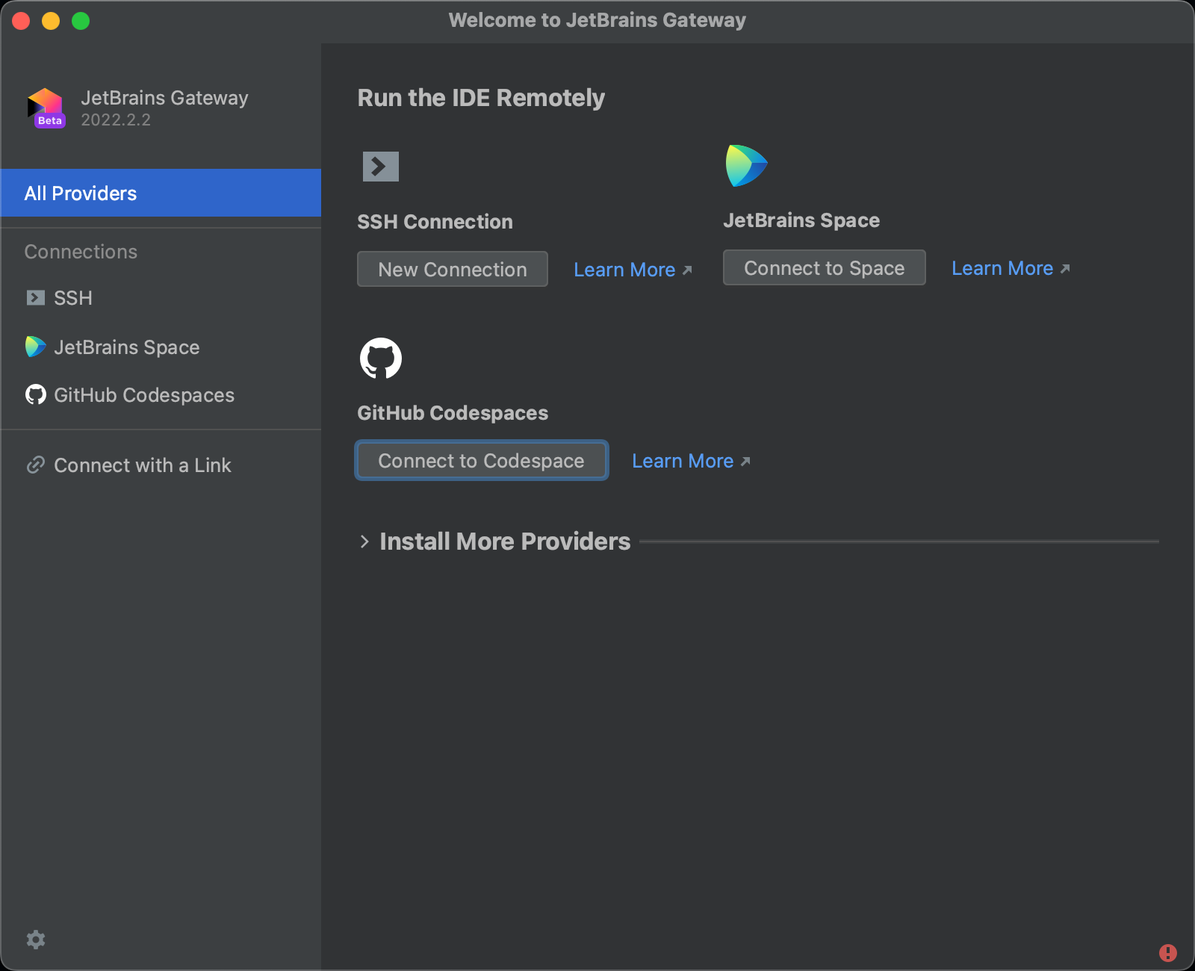
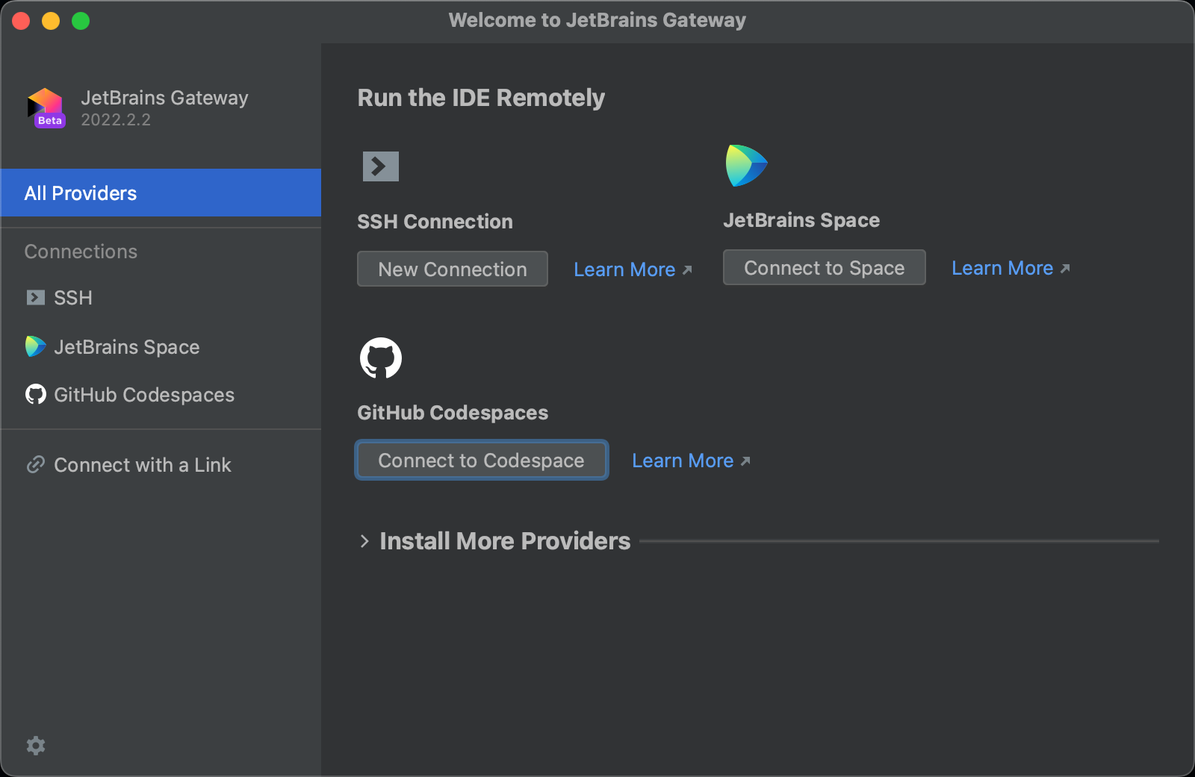
Universe: Final changes for docs for JetBrains support in Codespaces  (#32306)

diff --git a/content/codespaces/developing-in-codespaces/using-github-codespaces-in-your-jetbrains-ide.md b/content/codespaces/developing-in-codespaces/using-github-codespaces-in-your-jetbrains-ide.md
@@ -2,6 +2,7 @@
 title: Using GitHub Codespaces in your JetBrains IDE
 shortTitle: JetBrains IDEs
 intro: 'You can use the JetBrains Gateway to connect to your codespace and work in your favorite JetBrains IDE.'
+miniTocMaxHeadingLevel: 3
 versions:
   fpt: '*'
   ghec: '*'
@@ -42,7 +43,7 @@ To work in a codespace in a JetBrains IDE you need:
 
 * A valid JetBrains license
 * The JetBrains Gateway application
-* {% data variables.product.prodname_cli %} version 2.2.0 or later 
+* {% data variables.product.prodname_cli %} version 2.18.0 or later 
 * An existing codespace that's running an SSH server
 
 ### JetBrains license
@@ -61,7 +62,7 @@ You can install and update the JetBrains Gateway from the JetBrains Toolbox appl
 
 ### {% data variables.product.prodname_cli %}
 
-The {% data variables.product.prodname_github_codespaces %} plugin for the JetBrains Gateway requires that you have installed and configured {% data variables.product.prodname_cli %} version 2.2.0 or later before opening a codespace from the JetBrains Gateway.
+The {% data variables.product.prodname_github_codespaces %} plugin for the JetBrains Gateway requires that you have installed and configured {% data variables.product.prodname_cli %} version 2.18.0 or later before opening a codespace from the JetBrains Gateway.
 
 Use this command to check your version of {% data variables.product.prodname_cli %}:
 
@@ -73,32 +74,17 @@ For more information, see "[About GitHub CLI](/github-cli/github-cli/about-githu
 
 ### Codespace running an SSH server
 
-You must have an existing codespace to connect to. {% data reusables.codespaces.ways-to-create-a-codespace %} For more information, see "[Creating a codespace](/codespaces/developing-in-codespaces/creating-a-codespace)."
+You must have an existing codespace to connect to. {% data reusables.codespaces.ways-to-create-a-codespace %} For more information, see "[Creating a codespace for a repository](/codespaces/developing-in-codespaces/creating-a-codespace-for-a-repository)."
 
 {% data reusables.codespaces.ssh-server-installed %}
 
 For more information about the `devcontainer.json` file and the default container image, see "[Introduction to dev containers](/codespaces/setting-up-your-project-for-codespaces/introduction-to-dev-containers)."
 
-## Authenticating with {% data variables.product.prodname_dotcom_the_website %}
+{% note %}
 
-Before you can use the JetBrains Gateway to connect to your codespaces, you must use {% data variables.product.prodname_cli %} to authenticate with {% data variables.product.prodname_dotcom_the_website %}, specifying the `codespace` scope.
+**Note**: For help with connecting to your codespace over SSH, see "[Troubleshooting {% data variables.product.prodname_github_codespaces %} clients](/codespaces/troubleshooting/troubleshooting-github-codespaces-clients?tool=jetbrains#ssh-connection-issues)."
 
-1. In a terminal window:
-
-   ```shell{:copy}
-   gh auth login -h github.com -s codespace
-   ```
-
-1. If a prompt is displayed asking if you want to re-authenticate, type `y`.
-1. Follow the prompts to complete the authentication process, choosing these options:
-   * What account do you want to log into? `{% data variables.product.prodname_dotcom_the_website %}`
-   * What is your preferred protocol for Git operations? `HTTPS`
-   * Authenticate Git with your GitHub credentials? `yes`
-   * How would you like to authenticate GitHub CLI? `Login with a web browser`
-1. Copy the one-time code and press <kbd>Enter</kbd>.
-1. Paste the copied code and click **Continue**.
-1. If you belong to organizations, the "Single sign-on to your organizations" page is displayed. Click **Authorize** beside the organizations you want to authorize the JetBrains Gateway to access, then click **Continue**.
-1. On the "Authorize {% data variables.product.prodname_github_codespaces %} for JetBrains" page, click **Authorize {% data variables.product.prodname_dotcom %}**.
+{% endnote %}
 
 ## Setting up the JetBrains Gateway
 
@@ -107,8 +93,7 @@ The first time you use JetBrains Gateway for {% data variables.product.prodname_
 1. Open the JetBrains Gateway application.
 1. Under **Install More Providers** click the **Install** link for {% data variables.product.prodname_github_codespaces %}.
 
-   **TODOCS -- ADD SCREENSHOT OF CODESPACES "INSTALL" OPTION - TO BE SUPPLIED BY JETBRAINS**
-   ![Screenshot of the JetBrains Gateway initial view]()
+   ![Screenshot of the JetBrains Gateway initial view](/assets/images/help/codespaces/jetbrains-gateway-initial-view.png)
 
 1. Click **Connect to Codespace**.
 
@@ -145,3 +130,4 @@ The first time you use JetBrains Gateway for {% data variables.product.prodname_
 - "[Developing in a codespace](/codespaces/developing-in-codespaces/developing-in-a-codespace)"
 - "[Using the {% data variables.product.prodname_github_codespaces %} plugin for JetBrains](/codespaces/codespaces-reference/using-the-github-codespaces-plugin-for-jetbrains)"
 - "[Using {% data variables.product.prodname_copilot %} in {% data variables.product.prodname_github_codespaces %}](/codespaces/codespaces-reference/using-github-copilot-in-github-codespaces)"
+- "[Troubleshooting {% data variables.product.prodname_github_codespaces %} clients](/codespaces/troubleshooting/troubleshooting-github-codespaces-clients?tool=jetbrains)"

diff --git a/content/codespaces/getting-started/deep-dive.md b/content/codespaces/getting-started/deep-dive.md
@@ -93,7 +93,7 @@ To stop your codespace you can
 * In the browser: on your list of codespaces at [https://github.com/codespaces](https://github.com/codespaces), click the ellipsis (**...**) to the right of the codespace you want to stop and click **Stop codespace**.
 * In {% data variables.product.prodname_vscode_shortname %}: open [the {% data variables.product.prodname_vscode_command_palette %}](/codespaces/codespaces-reference/using-the-vs-code-command-palette-in-codespaces#suspending-or-stopping-a-codespace) - for example, by pressing <kbd>Ctrl</kbd>+<kbd>Shift</kbd>+<kbd>Enter</kbd> (Windows/Linux) or <kbd>Shift</kbd>+<kbd>Command</kbd>+<kbd>P</kbd> (Mac) - type `Codespaces: stop` then press <kbd>Enter</kbd>.
 * In the JetBrains client, click the stop button at the top of the {% data variables.product.prodname_github_codespaces %} tool window. For more information, see the "JetBrains IDEs" tab of "[Stopping and starting a codespace](/codespaces/developing-in-codespaces/stopping-and-starting-a-codespace)."
-* In a terminal window: use the {% data variables.product.prodname_cli %} command `gh codespace stop`. For more information, see "[Using Codespaces with GitHub CLI](/codespaces/developing-in-codespaces/using-github-codespaces-with-github-cli#gh-commands-for-github-codespaces)."
+* In a terminal window: use the {% data variables.product.prodname_cli %} command `gh codespace stop`. For more information, see "[Using {% data variables.product.prodname_github_codespaces %} with {% data variables.product.prodname_cli %}](/codespaces/developing-in-codespaces/using-github-codespaces-with-github-cli#gh-commands-for-github-codespaces)."
 
 If you exit your codespace without running the stop command (for example, by closing the browser tab), or if you leave the codespace running without interaction, the codespace and its running processes will continue for the duration of the inactivity timeout period. 
 
@@ -135,7 +135,7 @@ You can add plugins and extensions within a codespace to personalize your experi
 
 ### {% data variables.product.prodname_vscode_shortname %} extensions
 
-If you work on your codespaces in the {% data variables.product.prodname_vscode_shortname %} desktop application, or the web client, you can add any extensions you need from the {% data variables.product.prodname_vscode_marketplace %}. For information on how extensions run in {% data variables.product.prodname_github_codespaces %}, see [Supporting Remote Development and GitHub Codespaces](https://code.visualstudio.com/api/advanced-topics/remote-extensions) in the {% data variables.product.prodname_vscode_shortname %} documentation. 
+If you work on your codespaces in the {% data variables.product.prodname_vscode_shortname %} desktop application, or the web client, you can add any extensions you need from the {% data variables.product.prodname_vscode_marketplace %}. For information on how extensions run in {% data variables.product.prodname_github_codespaces %}, see [Supporting Remote Development and {% data variables.product.prodname_github_codespaces %}](https://code.visualstudio.com/api/advanced-topics/remote-extensions) in the {% data variables.product.prodname_vscode_shortname %} documentation. 
 
 If you already use {% data variables.product.prodname_vscode_shortname %}, you can use [Settings Sync](https://code.visualstudio.com/docs/editor/settings-sync) to automatically sync extensions, settings, themes, and keyboard shortcuts between your local instance and any codespaces you create.
 
@@ -156,4 +156,4 @@ If you work on your codespaces in a JetBrains IDE, you can add plugins from the 
 - "[Enabling {% data variables.product.prodname_github_codespaces %} for your organization](/codespaces/managing-codespaces-for-your-organization/enabling-github-codespaces-for-your-organization)"
 - "[Managing the cost of {% data variables.product.prodname_github_codespaces %} in your organization](/codespaces/managing-codespaces-for-your-organization/managing-the-cost-of-github-codespaces-in-your-organization)"
 - "[Add a dev container configuration to your repository](/codespaces/setting-up-your-project-for-codespaces/setting-up-your-project-for-codespaces)"
-- "[Codespaces lifecycle](/codespaces/developing-in-codespaces/codespaces-lifecycle)"
+- "[The codespace lifecycle](/codespaces/developing-in-codespaces/the-codespace-lifecycle)"

diff --git a/content/codespaces/developing-in-codespaces/the-codespace-lifecycle.md b/content/codespaces/developing-in-codespaces/the-codespace-lifecycle.md
@@ -1,5 +1,5 @@
 ---
-title: Codespaces lifecycle
+title: The codespace lifecycle
 intro: 'You can develop in a {% data variables.product.prodname_github_codespaces %} environment and maintain your data throughout the entire codespace lifecycle.'
 versions:
   fpt: '*'
@@ -8,6 +8,8 @@ type: overview
 topics:
   - Codespaces
   - Developer
+redirect_from:
+  - /codespaces/developing-in-codespaces/codespaces-lifecycle
 ---
 
 ## About the lifecycle of a codespace
@@ -30,7 +32,7 @@ When you connect to a codespace through the web, auto-save is enabled automatica
 
 Your work will be saved on a virtual machine in the cloud. You can close and stop a codespace and return to the saved work later. If you have unsaved changes, your editor will prompt you to save them before exiting. However, if your codespace is deleted, then your work will be deleted too. To persist your work, you will need to commit your changes and push them to your remote repository, or publish your work to a new remote repository if you created your codespace from a template. For more information, see "[Using source control in your codespace](/codespaces/developing-in-codespaces/using-source-control-in-your-codespace)."
 
-## Codespaces timeouts
+## Timeouts for {% data variables.product.prodname_github_codespaces %}
 
 If you leave your codespace running without interaction, or if you exit your codespace without explicitly stopping it, the codespace will timeout after a period of inactivity and stop running. By default, a codespace will timeout after 30 minutes of inactivity, but you can customize the duration of the timeout period for new codespaces that you create. For more information about setting the default timeout period for your codespaces, see "[Setting your timeout period for {% data variables.product.prodname_github_codespaces %}](/codespaces/customizing-your-codespace/setting-your-timeout-period-for-github-codespaces)." For more information about stopping a codespace, see "[Stopping a codespace](#stopping-a-codespace)."
 
@@ -74,7 +76,7 @@ If you create a codespace, it will continue to accrue storage charges until it i
 
 For more information on deleting a codespace, see "[Deleting a codespace](/codespaces/developing-in-codespaces/deleting-a-codespace)."
 
-## Losing the connection while using Codespaces
+## Losing the connection while using {% data variables.product.prodname_github_codespaces %}
 
 {% data variables.product.prodname_github_codespaces %} is a cloud-based development environment and requires an internet connection. If you lose connection to the internet while working in a codespace, you will not be able to access your codespace. However, any uncommitted changes will be saved. When you have access to an internet connection again, you can connect to your codespace in the exact same state that it was left in. If you have an unstable internet connection, you should commit and push your changes often.
 

diff --git a/content/education/manage-coursework-with-github-classroom/integrate-github-classroom-with-an-ide/using-github-codespaces-with-github-classroom.md b/content/education/manage-coursework-with-github-classroom/integrate-github-classroom-with-an-ide/using-github-codespaces-with-github-classroom.md
@@ -83,7 +83,7 @@ When a student opens an assignment, the repository's README file includes their 
 
 ![Screenshot of the Codespaces note in the README for a student assignment repository](/assets/images/help/classroom/student-codespaces-readme-link.png)
 
-Students can launch a new or existing codespace by clicking the **Open in GitHub Codespace** button in the README, or by clicking the **{% octicon "code" aria-label="The code icon" %} Code** button on the main page of the assignment repository, then selecting the **Codespaces** tab. From the **Codespaces** tab you can select an existing codespace or create a new one. For more information, see "[Creating a codespace](/codespaces/developing-in-codespaces/creating-a-codespace-for-a-repository#creating-a-codespace-for-a-repository)."
+Students can launch a new or existing codespace by clicking the **Open in GitHub Codespace** button in the README, or by clicking the **{% octicon "code" aria-label="The code icon" %} Code** button on the main page of the assignment repository, then selecting the **Codespaces** tab. From the **Codespaces** tab you can select an existing codespace or create a new one. For more information, see "[Creating a codespace for a repository](/codespaces/developing-in-codespaces/creating-a-codespace-for-a-repository#creating-a-codespace-for-a-repository)."
 
 ![Launch new codespace in assignment repository](/assets/images/help/classroom/student-launch-new-codespace.png)
 
@@ -91,4 +91,4 @@ Teachers can view each student's codespace for an assignment in the assignment o
 
 ![Teacher assignment overview with student's codespaces](/assets/images/help/classroom/teacher-assignment-view-with-codespaces.png)
 
-When you connect to a codespace through a browser, auto-save is enabled automatically. If you want to save changes to the repository, you will need to commit the changes and push them to a remote branch. If you leave your codespace running without interaction for 30 minutes by default, the codespace will timeout and stop running. Your data will be preserved from the last time you made a change. For more information on the lifecycle of a codespace, see "[Codespaces lifecycle](/codespaces/developing-in-codespaces/codespaces-lifecycle)."
+When you connect to a codespace through a browser, auto-save is enabled automatically. If you want to save changes to the repository, you will need to commit the changes and push them to a remote branch. If you leave your codespace running without interaction for 30 minutes by default, the codespace will timeout and stop running. Your data will be preserved from the last time you made a change. For more information on the lifecycle of a codespace, see "[The codespace lifecycle](/codespaces/developing-in-codespaces/the-codespace-lifecycle)."

diff --git a/content/codespaces/codespaces-reference/using-the-github-codespaces-plugin-for-jetbrains.md b/content/codespaces/codespaces-reference/using-the-github-codespaces-plugin-for-jetbrains.md
@@ -1,7 +1,7 @@
 ---
 title: Using the GitHub Codespaces plugin for JetBrains
 shortTitle: Plugin for JetBrains
-intro: 'You can use the {% data variables.product.prodname_github_codespaces %} plugin to find out about your codespace or to stop your codespace when you''ve finished working.'
+intro: 'You can use the {% data variables.product.prodname_github_codespaces %} plugin for the JetBrains client application to find out about your codespace or to stop your codespace when you''ve finished working.'
 versions:
   fpt: '*'
   ghec: '*'
@@ -13,6 +13,8 @@ topics:
 {% data reusables.codespaces.codespaces-jetbrains-beta-note %}
 
 ## About the {% data variables.product.prodname_github_codespaces %} plugin
+
+The JetBrains client application is launched when you connect to a codespace from the JetBrains Gateway application. It allows you to use {% data variables.product.prodname_github_codespaces %} with you favorite JetBrains IDE. For more information, see "[Using {% data variables.product.prodname_github_codespaces %} in your JetBrains IDE](/codespaces/developing-in-codespaces/using-github-codespaces-in-your-jetbrains-ide)."
 
 The {% data variables.product.prodname_github_codespaces %} plugin is already installed in the JetBrains client when you connect to a codespace from the JetBrains Gateway. The plugin adds the {% data variables.product.prodname_github_codespaces %} tool window to the user interface.
 
@@ -55,10 +57,11 @@ The icons at the top of the {% data variables.product.prodname_github_codespaces
 
   ![Screenshot of the log button](/assets/images/help/codespaces/jetbrains-plugin-icon-log.png)
 
-  Open the codespace creation log in the editor window. For more information, see "[GitHub Codespaces logs](/codespaces/troubleshooting/github-codespaces-logs)."
+  Open the codespace creation log in the editor window. For more information, see "[{% data variables.product.prodname_github_codespaces %} logs](/codespaces/troubleshooting/github-codespaces-logs)."
 
 * **Rebuild the dev container**
 
   ![Screenshot of the rebuild button](/assets/images/help/codespaces/jetbrains-plugin-icon-rebuild.png)
 
-  Rebuild your codespace to apply changes you've made to the dev container configuration. The JetBrains client will close and you must reopen the codespace. For more information, see "[Codespaces lifecycle](/codespaces/developing-in-codespaces/codespaces-lifecycle#rebuilding-a-codespace)."
+  Rebuild your codespace to apply changes you've made to the dev container configuration. The JetBrains client will close and you must reopen the codespace. For more information, see "[The codespace lifecycle](/codespaces/developing-in-codespaces/the-codespace-lifecycle#rebuilding-a-codespace)."
+

diff --git a/content/codespaces/customizing-your-codespace/setting-your-default-editor-for-github-codespaces.md b/content/codespaces/customizing-your-codespace/setting-your-default-editor-for-github-codespaces.md
@@ -23,7 +23,7 @@ On the settings page, you can set your editor preference so that when you create
 
 If you want to use {% data variables.product.prodname_vscode %} as your default editor for {% data variables.product.prodname_github_codespaces %}, you need to install {% data variables.product.prodname_vscode %} and the {% data variables.product.prodname_github_codespaces %} extension for {% data variables.product.prodname_vscode %}. For more information, see the [download page for {% data variables.product.prodname_vscode %}](https://code.visualstudio.com/download/) and the [{% data variables.product.prodname_github_codespaces %} extension on the {% data variables.product.prodname_vscode %} marketplace](https://marketplace.visualstudio.com/items?itemName=GitHub.codespaces).
 
-If you want to work on a codespace in a JetBrains IDE you must install the JetBrains Gateway. For more information, see "[Using Codespaces in your JetBrains IDE](/codespaces/developing-in-codespaces/using-github-codespaces-in-your-jetbrains-ide)."
+If you want to work on a codespace in a JetBrains IDE you must install the JetBrains Gateway. For more information, see "[Using {% data variables.product.prodname_github_codespaces %} in your JetBrains IDE](/codespaces/developing-in-codespaces/using-github-codespaces-in-your-jetbrains-ide)."
 
 ## Setting your default editor
 
@@ -43,7 +43,7 @@ If you want to work on a codespace in a JetBrains IDE you must install the JetBr
 
      The first time you open a codespace this way you must give permission to open the application. 
 
-     The Gateway application will open and the codespace will then be automatically selected. You can then choose a JetBrains IDE, if you have not previously done so, and click **Connect** to open the codespace in the JetBrains client. For more information, see "[Using Codespaces in your JetBrains IDE](/codespaces/developing-in-codespaces/using-github-codespaces-in-your-jetbrains-ide)."
+     The Gateway application will open and the codespace will then be automatically selected. You can then choose a JetBrains IDE, if you have not previously done so, and click **Connect** to open the codespace in the JetBrains client. For more information, see "[Using {% data variables.product.prodname_github_codespaces %} in your JetBrains IDE](/codespaces/developing-in-codespaces/using-github-codespaces-in-your-jetbrains-ide)."
      
      To connect to a codespace from the Gateway application, you must have an SSH server running on the codespace. {% indented_data_reference reusables.codespaces.ssh-server-installed spaces=5 %}
 

diff --git a/content/codespaces/troubleshooting/troubleshooting-github-codespaces-clients.md b/content/codespaces/troubleshooting/troubleshooting-github-codespaces-clients.md
@@ -2,6 +2,7 @@
 title: Troubleshooting GitHub Codespaces clients
 shortTitle: Codespaces clients
 intro: 'This article provides troubleshooting information for issues you may encounter with the client you use for {% data variables.product.prodname_github_codespaces %}.'
+miniTocMaxHeadingLevel: 3
 versions:
   fpt: '*'
   ghec: '*'
@@ -84,9 +85,9 @@ The following provides some guidance as an initial starting point, which you can
 | 8 core         | 4 GB              |
 | 16 or 32 cores | 8 GB              |
 
-1. Click **Localhost** at the left of the navigation bar, at the top of the application window.
+1. On the left of the navigation bar, at the top of the application window, click the name of the codespace.
 
-   ![Screenshot of a the Localhost button in JetBrains](/assets/images/help/codespaces/jetbrains-localhost-button.png)
+   ![Screenshot of the resources button in JetBrains](/assets/images/help/codespaces/jetbrains-resources-button.png)
 
 1. In the Performance tab, note the CPU Load and Memory details. These will indicate whether the machine is overloaded.
  
@@ -97,6 +98,12 @@ The following provides some guidance as an initial starting point, which you can
    ![Screenshot of the maximum heap size setting](/assets/images/help/codespaces/jetbrains-heap-setting.png)
 
 1. Click **Save and restart**.
+
+### SSH connection issues
+
+To connect via the SSH server running in your codespace, you must have an SSH key in your `~/.ssh` directory (MacOS and Linux) or `%HOMEPATH%\.ssh` directory (Windows) that has already been added to your {% data variables.product.prodname_dotcom %} account. If you do not have any keys in this directory, {% data variables.product.prodname_cli %} will generate keys for you. For more information, see "[Adding a new SSH key to your {% data variables.product.prodname_dotcom %} account](/authentication/connecting-to-github-with-ssh/adding-a-new-ssh-key-to-your-github-account?platform=windows&tool=webui)."
+
+If you encounter problems with key validation, try upgrading your version of {% data variables.product.prodname_cli %}. For information, see the [upgrade instructions](https://github.com/cli/cli#installation) in the README for {% data variables.product.prodname_cli %}.
 
 ### JetBrains IDE issues
 

diff --git a/content/codespaces/managing-codespaces-for-your-organization/enabling-github-codespaces-for-your-organization.md b/content/codespaces/managing-codespaces-for-your-organization/enabling-github-codespaces-for-your-organization.md
@@ -18,7 +18,7 @@ topics:
 
 ## About enabling {% data variables.product.prodname_github_codespaces %} for your organization
 
-Organization owners can control which users in your organization can create and use codespaces at the organization's expense. For information about pricing, see "[About billing for GitHub Codespaces](/billing/managing-billing-for-github-codespaces/about-billing-for-github-codespaces)."
+Organization owners can control which users in your organization can create and use codespaces at the organization's expense. For information about pricing, see "[About billing for {% data variables.product.prodname_github_codespaces %}](/billing/managing-billing-for-github-codespaces/about-billing-for-github-codespaces)."
 
 Only people who can either push changes to a repository, or fork the repository, can create a codespace for that repository. To allow people to create codespaces for repositories owned by your organization, you must:
 
@@ -33,7 +33,7 @@ To allow people to create codespaces for which your organization will be billed,
 {% ifversion fpt %}
 {% note %}
 
-**Note:** If you are a verified educator or a teacher, you must enable {% data variables.product.prodname_codespaces %} from a {% data variables.product.prodname_classroom %} to use your {% data variables.product.prodname_codespaces %} Education benefit. For more information, see "[Using GitHub Codespaces with GitHub Classroom](/education/manage-coursework-with-github-classroom/integrate-github-classroom-with-an-ide/using-github-codespaces-with-github-classroom#about-the-codespaces-education-benefit-for-verified-teachers)."
+**Note:** If you are a verified educator or a teacher, you must enable {% data variables.product.prodname_github_codespaces %} from a {% data variables.product.prodname_classroom %} to use your {% data variables.product.prodname_codespaces %} Education benefit. For more information, see "[Using {% data variables.product.prodname_github_codespaces %} with {% data variables.product.prodname_classroom %}](/education/manage-coursework-with-github-classroom/integrate-github-classroom-with-an-ide/using-github-codespaces-with-github-classroom#about-the-codespaces-education-benefit-for-verified-teachers)."
 
 {% endnote %}
 {% endif %}

diff --git a/content/codespaces/overview.md b/content/codespaces/overview.md
@@ -45,7 +45,7 @@ You can create and use a codespace for any repository you can clone. You can als
 
 Organization owners can enable use of {% data variables.product.prodname_github_codespaces %}, billable to the organization or enterprise account. This applies to codespaces created from repositories owned by the organization. For more information, see "[Enabling {% data variables.product.prodname_github_codespaces %} for your organization](/codespaces/managing-codespaces-for-your-organization/enabling-github-codespaces-for-your-organization)." You can set a spending limit for use of {% data variables.product.prodname_github_codespaces %} on your organization or enterprise account. For more information, see "[Managing spending limits for {% data variables.product.prodname_github_codespaces %}](/billing/managing-billing-for-github-codespaces/managing-the-spending-limit-for-github-codespaces)."
 
-If use of a codespace will be billed to an organization or enterprise, this is shown when the codespace is created. For more information, see "[Creating a codespace](/codespaces/developing-in-codespaces/creating-a-codespace#creating-a-codespace-for-a-repository)." Codespaces that are billed to an organization, or its parent enterprise, are owned by the organization and can be deleted an organization owner. For more information, see "[Deleting a codespace](/codespaces/developing-in-codespaces/deleting-a-codespace#deleting-codespaces-in-your-organization)." 
+If use of a codespace will be billed to an organization or enterprise, this is shown when the codespace is created. For more information, see "[Creating a codespace for a repository](/codespaces/developing-in-codespaces/creating-a-codespace-for-a-repository#creating-a-codespace-for-a-repository)." Codespaces that are billed to an organization, or its parent enterprise, are owned by the organization and can be deleted an organization owner. For more information, see "[Deleting a codespace](/codespaces/developing-in-codespaces/deleting-a-codespace#deleting-codespaces-in-your-organization)." 
 
 ### Customizing {% data variables.product.prodname_github_codespaces %}
 

diff --git a/content/codespaces/customizing-your-codespace/personalizing-github-codespaces-for-your-account.md b/content/codespaces/customizing-your-codespace/personalizing-github-codespaces-for-your-account.md
@@ -95,11 +95,11 @@ You can also personalize {% data variables.product.prodname_github_codespaces %}
 
 - To enable GPG verification, see "[Managing GPG verification for {% data variables.product.prodname_github_codespaces %}](/codespaces/managing-your-codespaces/managing-gpg-verification-for-github-codespaces)."
 - To set your editor, see "[Setting your default editor for {% data variables.product.prodname_github_codespaces %}](/codespaces/customizing-your-codespace/setting-your-default-editor-for-github-codespaces)."
-- To set how long a codespace can remain unused before it is automatically stopped, see "[Setting your timeout period for GitHub Codespaces](/codespaces/customizing-your-codespace/setting-your-timeout-period-for-github-codespaces)."
+- To set how long a codespace can remain unused before it is automatically stopped, see "[Setting your timeout period for {% data variables.product.prodname_github_codespaces %}](/codespaces/customizing-your-codespace/setting-your-timeout-period-for-github-codespaces)."
 - To set the period for which your unused codespaces are retained, see "[Configuring automatic deletion of your codespaces](/codespaces/customizing-your-codespace/configuring-automatic-deletion-of-your-codespaces)."
 - To set your default region, see "[Setting your default region for {% data variables.product.prodname_github_codespaces %}](/codespaces/customizing-your-codespace/setting-your-default-region-for-github-codespaces)."
 
 ## Further reading
 
 * "[Creating a new repository](/github/creating-cloning-and-archiving-repositories/creating-a-new-repository)"
-* "[Deep dive into GitHub Codespaces](/codespaces/getting-started/deep-dive#personalizing-your-codespace-with-extensions-or-plugins)"
+* "[Deep dive into {% data variables.product.prodname_github_codespaces %}](/codespaces/getting-started/deep-dive#personalizing-your-codespace-with-extensions-or-plugins)"

diff --git a/content/codespaces/developing-in-codespaces/creating-a-codespace-for-a-repository.md b/content/codespaces/developing-in-codespaces/creating-a-codespace-for-a-repository.md
@@ -49,7 +49,7 @@ When you create a codespace, a number of steps happen to create and connect you 
 
 For more information on what happens when you create a codespace, see "[Deep Dive](/codespaces/getting-started/deep-dive)."
 
-For more information on the lifecycle of a codespace, see "[Codespaces lifecycle](/codespaces/developing-in-codespaces/codespaces-lifecycle)."
+For more information on the lifecycle of a codespace, see "[The codespace lifecycle](/codespaces/developing-in-codespaces/the-codespace-lifecycle)."
 
 If you want to use Git hooks for your codespace, then you should set up hooks using the [`devcontainer.json` lifecycle scripts](https://code.visualstudio.com/docs/remote/devcontainerjson-reference#_lifecycle-scripts), such as `postCreateCommand`, during step 4. Since your codespace container is created after the repository is cloned, any [git template directory](https://git-scm.com/docs/git-init#_template_directory) configured in the container image will not apply to your codespace. Hooks must instead be installed after the codespace is created. For more information on using `postCreateCommand`, see the [`devcontainer.json` reference](https://code.visualstudio.com/docs/remote/devcontainerjson-reference#_devcontainerjson-properties) in the {% data variables.product.prodname_vscode_shortname %} documentation.
 
@@ -150,4 +150,4 @@ For full details of the options for this command, see [the {% data variables.pro
 
 ## Further reading
 - "[Opening an existing codespace](/codespaces/developing-in-codespaces/opening-an-existing-codespace)"
-- "[Adding an 'Open in GitHub Codespaces' badge](/codespaces/setting-up-your-project-for-codespaces/adding-a-codespaces-badge)"
+- "[Adding an 'Open in {% data variables.product.prodname_github_codespaces %}' badge](/codespaces/setting-up-your-project-for-codespaces/adding-a-codespaces-badge)"

diff --git a/content/codespaces/troubleshooting/github-codespaces-logs.md b/content/codespaces/troubleshooting/github-codespaces-logs.md
@@ -136,7 +136,7 @@ These logs are available for {% data variables.product.prodname_vscode_shortname
 1. In {% data variables.product.prodname_vscode_shortname %}, open the Command Palette.
 1. Type **Logs** and select **Developer: Open Extension Logs Folder** from the list to open the extension log folder in your system's file explorer.
 
-From this view, you can access logs generated by the various extensions that you use in {% data variables.product.prodname_vscode_shortname %}. You will see logs for GitHub Codespaces, GitHub Authentication, and Git, in addition to any other extensions you have enabled.
+From this view, you can access logs generated by the various extensions that you use in {% data variables.product.prodname_vscode_shortname %}. You will see logs for {% data variables.product.prodname_github_codespaces %}, {% data variables.product.prodname_dotcom %} Authentication, and Git, in addition to any other extensions you have enabled.
 
 {% endvscode %}
 
@@ -168,5 +168,5 @@ You can download logs for the remote JetBrains IDE and the local client applicat
 
 ## Further reading
 
-- "[Reviewing your organization's audit logs for GitHub Codespaces](/codespaces/managing-codespaces-for-your-organization/reviewing-your-organizations-audit-logs-for-github-codespaces)"
-- "[Reviewing your security logs for GitHub Codespaces](/codespaces/managing-your-codespaces/reviewing-your-security-logs-for-github-codespaces)"
+- "[Reviewing your organization's audit logs for {% data variables.product.prodname_github_codespaces %}](/codespaces/managing-codespaces-for-your-organization/reviewing-your-organizations-audit-logs-for-github-codespaces)"
+- "[Reviewing your security logs for {% data variables.product.prodname_github_codespaces %}](/codespaces/managing-your-codespaces/reviewing-your-security-logs-for-github-codespaces)"
